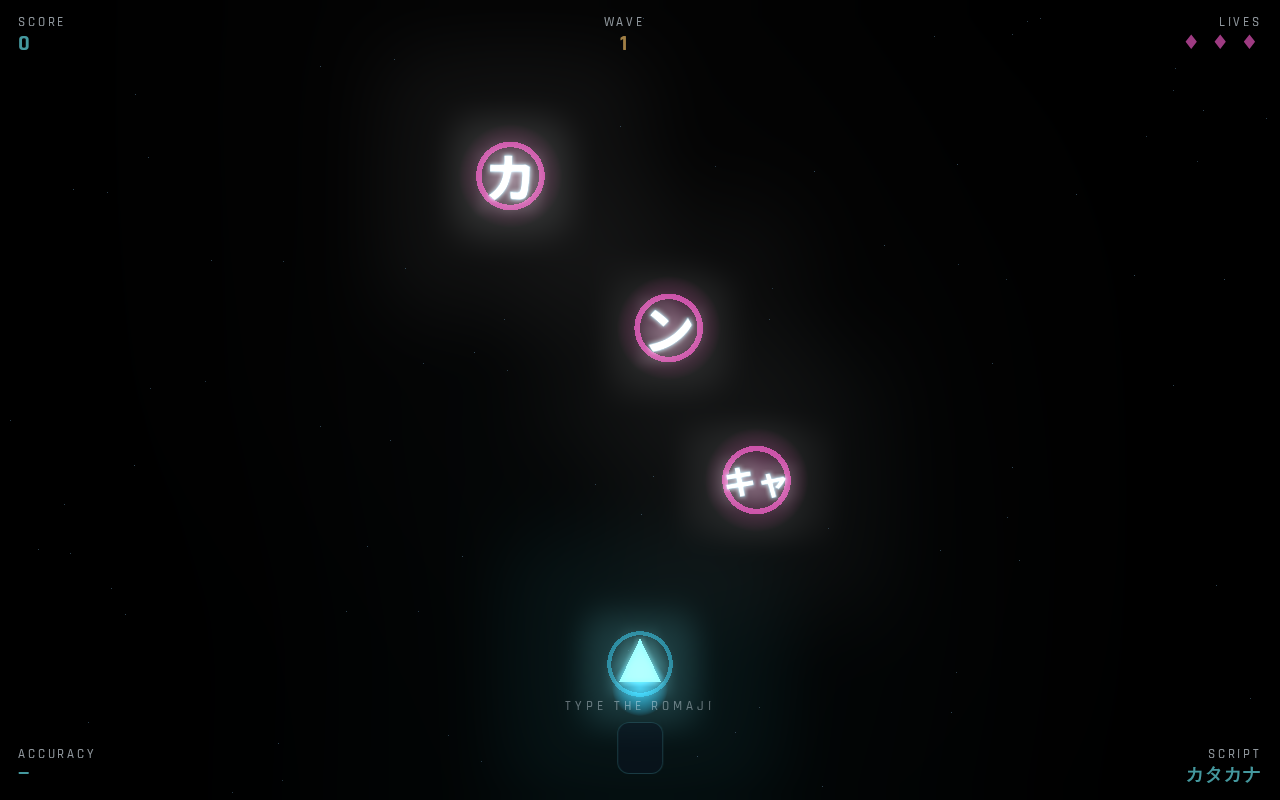
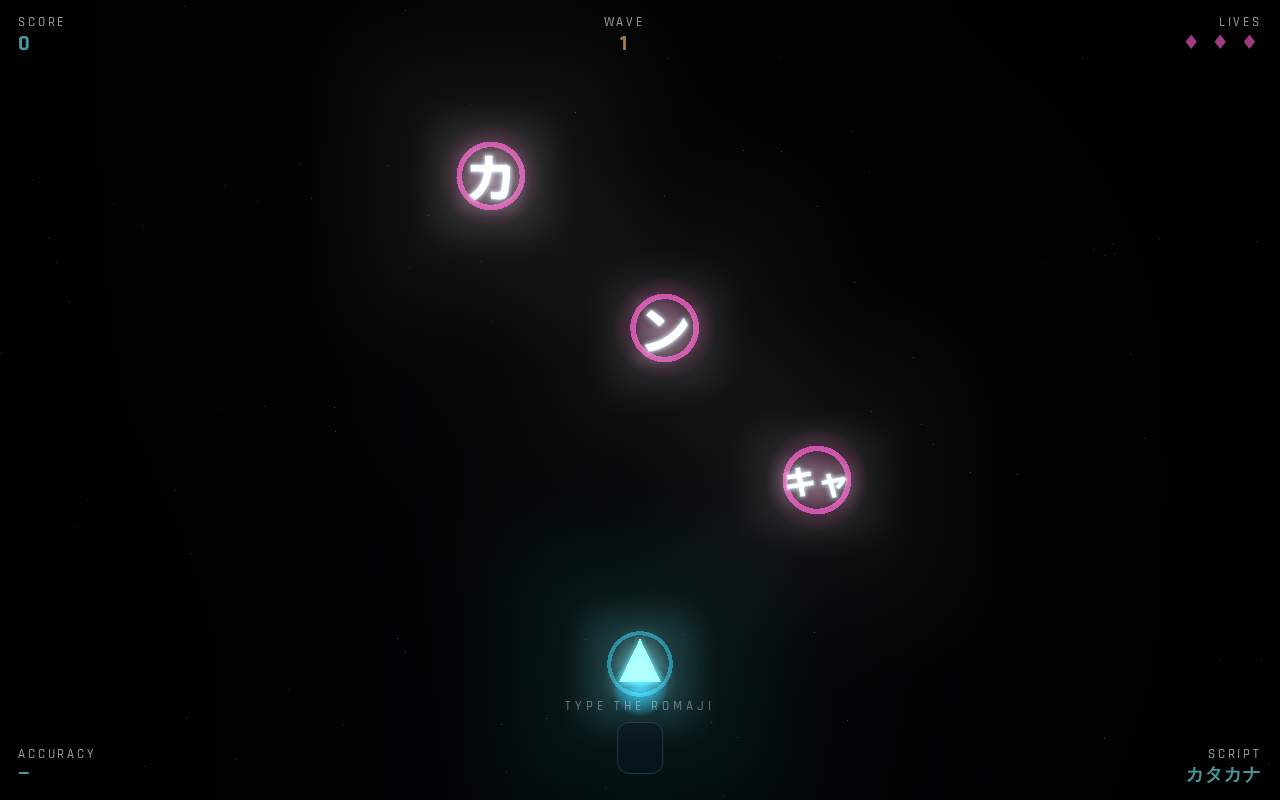
Add a soft positioning bonus for aligned kills
Movement still never gates the drill — typing destroys a matching ship
from anywhere on screen, same as always. But killing one while the
player's ship is roughly underneath it (within ALIGN_RANGE world units)
now scores up to +35% extra, continuous with distance, stacking with the
existing proximity/combo multipliers. A precise kill (align >= 0.6) also
fires a gold beam instead of the usual cyan and flashes a "precision
kill" toast, so the bonus is legible without new HUD chrome.

killEnemy(e, dist) took an unused second parameter from the start — reused
it as the alignment value driving the beam color instead of adding a new
one. flashToast(msg) gained an optional class argument so the precision
callout can render in --ok green rather than the toast's default --bad
red (used for the escape/miss reveal).

Added a deterministic real-browser regression test for this: kill the
same stationary target from directly underneath vs. far across the
screen, assert the aligned kill scores meaningfully more and shows the
precision callout. Chased down two sources of flakiness in getting there:
typing the test's romaji must avoid w/a/s/d, which double as movement
keys on the same keydown listener that drives flying (typing them nudges
the ship mid-word); and killEnemy's test-spawned target needs phase=0, not
just drift=0 and speed=0 — the update loop applies sin(age*drift+phase)*5.5
to x every frame regardless, so a leftover random phase alone jitters a
[…]

Changed region(s): [[0.5312, 0.5312, 0.6875, 0.6562], [0.3438, 0.1562, 0.4375, 0.2812], [0.4688, 0.375, 0.5625, 0.4688]]

diff --git a/index.html b/index.html
@@ -54,6 +54,7 @@
   #toast{position:fixed;left:50%;top:112px;transform:translateX(-50%);
     font-size:15px;letter-spacing:.2em;color:var(--bad);opacity:0;
     transition:opacity .3s;pointer-events:none;text-transform:uppercase}
+  #toast.good{color:var(--ok)}
 
   /* ---------- screens ---------- */
   .screen{position:fixed;inset:0;display:flex;flex-direction:column;
@@ -674,11 +675,14 @@ function spawnEnemy(entry, speed){
   });
 }
 
-function killEnemy(e, dist){
+function killEnemy(e, align = 0){
   e.alive = false;          // the update loop reaps it on the next frame
   scene.remove(e.g);
   spawnBurst(e.g.position.x, e.g.position.y, 0x9ff6ff, 26);
-  spawnBeam(player.position.clone().setZ(2), e.g.position.clone(), 0x8bf7ff);
+  // Gold beam for a precise (well-aligned) kill, the usual cyan otherwise —
+  // a free visual tell for the positioning bonus, no HUD text required.
+  spawnBeam(player.position.clone().setZ(2), e.g.position.clone(),
+    align >= PRECISE_ALIGN ? 0xffc86b : 0x8bf7ff);
 }
 
 /* ---------- enemy bullets ---------- */
@@ -706,6 +710,14 @@ function spawnBullet(from){
 // happens to expire (up to 1.5s) — cap the wait so a replacement appears
 // promptly once the field has room.
 const RESPAWN_GAP = 0.35;
+
+// Positioning bonus: typing always works from anywhere (the drill never
+// gates on flying skill), but killing a ship while roughly underneath it
+// scores extra — a soft, additive reward for movement rather than a
+// requirement. ALIGN_RANGE is the x-distance (world units) the bonus falls
+// off over; PRECISE_ALIGN is the threshold for the "precision kill" callout.
+const ALIGN_RANGE = 11;
+const PRECISE_ALIGN = 0.6;
 
 const S = {
   running: false, over: false, paused: false,
@@ -768,8 +780,9 @@ function renderBuffer(){
 function escapeHtml(s){ return s.replace(/[&<>"']/g, c => ({ '&':'&amp;','<':'&lt;','>':'&gt;','"':'&quot;',"'":'&#39;' }[c])); }
 
 let comboTimeout = 0, toastTimeout = 0;
-function flashToast(msg){
+function flashToast(msg, cls){
   ui.toast.textContent = msg;
+  ui.toast.className = cls || '';
   ui.toast.style.opacity = 1;
   clearTimeout(toastTimeout);
   toastTimeout = setTimeout(() => { ui.toast.style.opacity = 0; }, 900);
@@ -885,17 +898,23 @@ function handleChar(k){
     const s = stat(victim.entry.key); s.seen++; s.ok++;
     saveMastery();
 
-    // score: base + proximity bonus + streak, longer romaji worth more
+    // score: base + proximity + positioning + streak, longer romaji worth more.
+    // The positioning bonus is purely additive — typing already fired
+    // regardless of where the player's ship is, this just rewards flying
+    // under the target before finishing it.
     const prox = Math.max(0, 1 - (victim.g.position.y + VIEW_H / 2) / VIEW_H);
-    S.score += Math.round((60 + victim.entry.romaji.length * 22) * (1 + prox * 0.6) * (1 + Math.min(S.combo, 10) * 0.05));
+    const align = Math.max(0, 1 - Math.abs(player.position.x - victim.g.position.x) / ALIGN_RANGE);
+    S.score += Math.round((60 + victim.entry.romaji.length * 22) *
+      (1 + prox * 0.6) * (1 + align * 0.35) * (1 + Math.min(S.combo, 10) * 0.05));
 
-    killEnemy(victim);
+    killEnemy(victim, align);
     Audio_.kill(0.8 + Math.min(S.combo, 8) * 0.06);
     S.spawnIn = Math.min(S.spawnIn, RESPAWN_GAP);
     S.buffer = '';
     setBuffer('');
     retarget();
     flashCombo();
+    if (align >= PRECISE_ALIGN) flashToast('precision kill', 'good');
     refreshHud();
   }
 }

diff --git a/README.md b/README.md
@@ -55,6 +55,11 @@ never overlap.
 - **Targeting.** What you type matches against the *lowest* ship whose romaji
   still fits what you've typed — the most urgent one. Matching ships are
   highlighted, so you can see the lock before you finish the word.
+- **Flying pays off, but never gates.** Typing always destroys a matching ship
+  from anywhere on screen — the drill never blocks on flying skill. But kill
+  one while your ship is roughly underneath it and you score extra (a gold
+  beam instead of cyan, plus a "precision kill" callout), so movement has a
+  real reason to exist beyond dodging once bullets start in wave 3.
 - **The answer is never shown.** Once you start a word the buffer shows your
   progress and placeholders, never the remaining letters. Handing over the rest
   of the word after the first keystroke would defeat the point for `tsu`,
@@ -109,11 +114,13 @@ the difficulty cutoffs, and checks every DOM id the game reaches for actually
 exists. `test-playwright.mjs` plays the game on desktop: it types romaji,
 checks partial words don't fire, that the answer isn't leaked, that escapes
 and bullets cost lives, that pause freezes the world, that the difficulty
-slider actually changes the pool, and — most usefully — that **all 104 romaji
-are typeable**. That last one exists because it caught a real bug: `m` was
-bound to the mute toggle, which silently made ma/mi/mu/me/mo/mya/myu/myo
-impossible to answer. `test-mobile.mjs` runs the same game under touch
-emulation and drives the on-screen keyboard and drag gestures directly.
+slider actually changes the pool, that killing a ship while aligned under it
+scores meaningfully more than killing it from across the screen, and — most
+usefully — that **all 104 romaji are typeable**. That last one exists because
+it caught a real bug: `m` was bound to the mute toggle, which silently made
+ma/mi/mu/me/mo/mya/myu/myo impossible to answer. `test-mobile.mjs` runs the
+same game under touch emulation and drives the on-screen keyboard and drag
+gestures directly.
 
 ## Coverage
 
